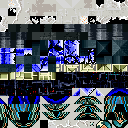
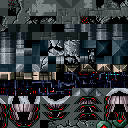
Assets: PNG palettes of the stage clear pictures, FINAL SCORE and the top-down Mode 7 characters from their screens
The stage clear pictures' characters had palette_08892E, the darker copy
palette_task_058889 puts in CGRAM while the scores are drawn over the
picture; they now have palette_08882C at the row their maps use (48, and
96 for gfx_18D4E3), the colours of the picture alone.  gfx_1FE855 had
stage 6 colours (palette_0886C6); with gfx_1AE9C9 (a grey ramp) it now has
FINAL SCORE's palette_088B7A from 48.

The Mode 7 characters of the top-down maps (gfx_13CC02, gfx_148000,
gfx_158000, gfx_168000, stage2_boss_m7_chars, stage5_boss_m7_chars) are
linked to `level:NAME`, the 256 colours of that level preview through
EXTBG: their palettes came from palette_buffer as is, so every pixel from
128 up had a sprite colour the map never shows (and two were grey).

Only the PNGs' palettes change; their pixels and the ROM do not.

Claude-Session: https://claude.ai/code/session_01D9P67qDiTFLEwDi3hm62As

diff --git a/book/src/assets.md b/book/src/assets.md
@@ -267,7 +267,8 @@ asset was written into its PNG (`--apply`); palettes that are all black (a
 faded-out screen) do not count. 90 of the 97 got a palette this way; the
 other 7 (`gfx_0E8307`, `gfx_11C386`, `gfx_148000`, `gfx_15DCD9`,
 `gfx_168000`, `gfx_17D20E`, `gfx_1AE9C9`) were never seen on screen at
-those moments and keep a grey ramp. An asset shown
+those moments and kept a grey ramp (`gfx_148000`, `gfx_168000` and
+`gfx_1AE9C9` have colours now, linked below). An asset shown
 with several palettes (a sprite sheet shared by enemies of several
 colours) has the most frequent one. The 13 WRAM graphics of bank `$7E` came
 later: 10 got their palette from the same tool (run every 60 frames); the
@@ -281,15 +282,36 @@ same tool too: `gfx_07E9FE` has `palette_088022` (linked),
 `td_sprite_tiles_13` and `td_sprite_tiles_14` `palette_088DA4` (linked,
 the colours they were seen with); `gfx_14DC62` was never seen and keeps a grey ramp.
 
-74 PNGs have colours that are those of exactly one palette asset (an
-aligned or unaligned run of 2, 16 or 256 colours of it); `assets/views.txt`
-links them (a line `palette`, the PNG, the palette, the first colour). `python3 tools/assets.py
-sync-palettes` copies the palette's colours into those PNGs, so after
-editing a palette, run it to see the graphics in the new colours; `make
-assets-check` fails while a linked PNG's colours differ from its
-palette's. The others (14 whose colours are in several palettes, the
-font among them, the Mode 7 graphics, whose 256 colours come from several
-palettes, and the grey ones) keep their colours.
+81 PNGs have their colours from palette assets, linked in
+`assets/views.txt` (a line `palette`, the PNG, the palette, the first
+colour): 74 whose colours were those of exactly one palette asset (an
+aligned or unaligned run of 2, 16 or 256 colours of it), and 7 more.
+These were linked, or linked again, from the screen that shows them, with
+the palette its preview has (checked in the emulator, see
+[Tilemaps](#tilemaps) and the level previews below):
+
+- the stage clear pictures' characters (`gfx_188000` ... `gfx_19CAB9`)
+  and FINAL SCORE's (`gfx_1FE855`, `gfx_1AE9C9`): the colours of the
+  row their map draws them with, in `palette_08882C` and `palette_088B7A`.
+  `tools/gfx_palettes.py` had given the pictures `palette_08892E`, the
+  darker copy that `palette_task_058889` puts in CGRAM while the scores
+  are drawn over the picture (the moment most often on screen), and
+  `gfx_1FE855` colours of stage 6;
+- the Mode 7 characters of the top-down maps (`gfx_13CC02`, `gfx_148000`,
+  `stage2_boss_m7_chars`, `gfx_158000`, `gfx_168000`,
+  `stage5_boss_m7_chars`): `level:NAME`, the 256 colours of that level
+  preview, through EXTBG (a pixel 129-255 shows colour pixel & `$7F`,
+  see [Editing a level](#editing-a-level)). Their colours from
+  `palette_buffer` were those of the sprites for every pixel from 128
+  up, which the game never shows on the map: the stage 2 boss came out
+  orange and teal instead of dark metal.
+
+`python3 tools/assets.py sync-palettes` copies the palette's colours into
+those PNGs, so after editing a palette, run it to see the graphics in the
+new colours; `make assets-check` fails while a linked PNG's colours differ
+from its palette's. The others (14 whose colours are in several palettes,
+the font among them, the other Mode 7 graphics, and the grey ones) keep
+their colours.
 
 The [Graphics gallery](gallery.md) shows all 114.
 

diff --git a/book/src/gallery.md b/book/src/gallery.md
@@ -1039,7 +1039,7 @@ colours are those of one of them (`assets/views.txt`) take its colours
 
 ### palette_088254
 
-`assets/palettes/palette_088254.gpl`: 48 colours (block). Colours of `gfx_0DA728`, `gfx_0DC90C`, `gfx_0DD6D3`, `gfx_0DDC20`, `gfx_0DEF88`, `gfx_0E8000`, `gfx_0E9584`, `gfx_0E9F5E`, `gfx_0EDA4E`, `gfx_0EDD88`, `gfx_14A86D`, `gfx_18D4E3`, `packed_0B8000`, `packed_0B935C`, `packed_0BAA9C`, `packed_0BBCFD`, `packed_0BD88C`.
+`assets/palettes/palette_088254.gpl`: 48 colours (block). Colours of `gfx_0DA728`, `gfx_0DC90C`, `gfx_0DD6D3`, `gfx_0DDC20`, `gfx_0DEF88`, `gfx_0E8000`, `gfx_0E9584`, `gfx_0E9F5E`, `gfx_0EDA4E`, `gfx_0EDD88`, `gfx_14A86D`, `packed_0B8000`, `packed_0B935C`, `packed_0BAA9C`, `packed_0BBCFD`, `packed_0BD88C`.
 
 <img src="gallery/palettes/palette_088254.png" alt="palette_088254" width="256" style="image-rendering: pixelated">
 
@@ -1069,7 +1069,7 @@ colours are those of one of them (`assets/views.txt`) take its colours
 
 ### palette_08843E
 
-`assets/palettes/palette_08843E.gpl`: 128 colours (block). Colours of `gfx_0F8000`, `gfx_0F9460`, `gfx_0FAC90`, `gfx_0FC8E5`, `gfx_0FD147`, `gfx_188000`.
+`assets/palettes/palette_08843E.gpl`: 128 colours (block). Colours of `gfx_0F8000`, `gfx_0F9460`, `gfx_0FAC90`, `gfx_0FC8E5`, `gfx_0FD147`.
 
 <img src="gallery/palettes/palette_08843E.png" alt="palette_08843E" width="256" style="image-rendering: pixelated">
 
@@ -1093,7 +1093,7 @@ colours are those of one of them (`assets/views.txt`) take its colours
 
 ### palette_0886C6
 
-`assets/palettes/palette_0886C6.gpl`: 48 colours (block). Colours of `gfx_1FE855`.
+`assets/palettes/palette_0886C6.gpl`: 48 colours (block).
 
 <img src="gallery/palettes/palette_0886C6.png" alt="palette_0886C6" width="256" style="image-rendering: pixelated">
 
@@ -1111,13 +1111,13 @@ colours are those of one of them (`assets/views.txt`) take its colours
 
 ### palette_08882C
 
-`assets/palettes/palette_08882C.gpl`: 128 colours (block).
+`assets/palettes/palette_08882C.gpl`: 128 colours (block). Colours of `gfx_188000`, `gfx_1899A4`, `gfx_18AF20`, `gfx_18C896`, `gfx_18D4E3`, `gfx_18E9DF`, `gfx_198000`, `gfx_199AB1`, `gfx_19AF8C`, `gfx_19CAB9`.
 
 <img src="gallery/palettes/palette_08882C.png" alt="palette_08882C" width="256" style="image-rendering: pixelated">
 
 ### palette_08892E
 
-`assets/palettes/palette_08892E.gpl`: 96 colours (block). Colours of `gfx_0BE86E`, `gfx_1899A4`, `gfx_18AF20`, `gfx_18C896`, `gfx_18E9DF`, `gfx_198000`, `gfx_199AB1`, `gfx_19AF8C`, `gfx_19CAB9`.
+`assets/palettes/palette_08892E.gpl`: 96 colours (block). Colours of `gfx_0BE86E`.
 
 <img src="gallery/palettes/palette_08892E.png" alt="palette_08892E" width="256" style="image-rendering: pixelated">
 
@@ -1147,7 +1147,7 @@ colours are those of one of them (`assets/views.txt`) take its colours
 
 ### palette_088B7A
 
-`assets/palettes/palette_088B7A.gpl`: 80 colours (block).
+`assets/palettes/palette_088B7A.gpl`: 80 colours (block). Colours of `gfx_1FE855`, `gfx_1AE9C9`.
 
 <img src="gallery/palettes/palette_088B7A.png" alt="palette_088B7A" width="256" style="image-rendering: pixelated">
 
